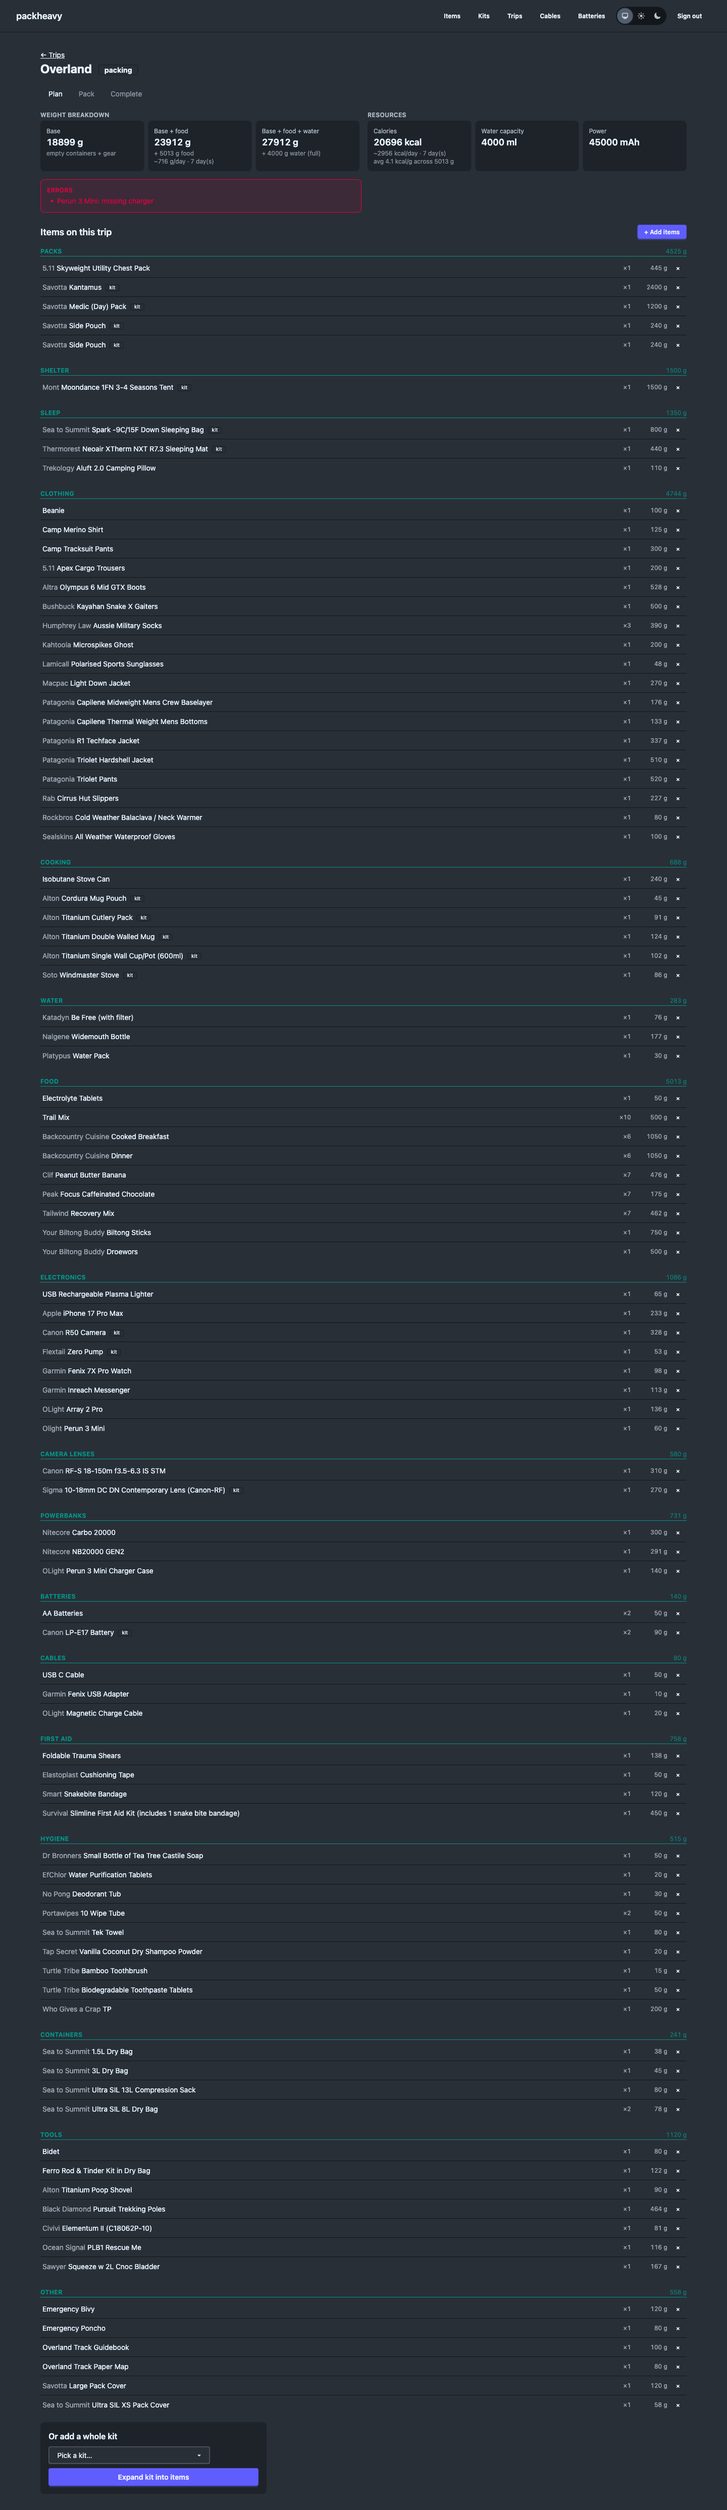
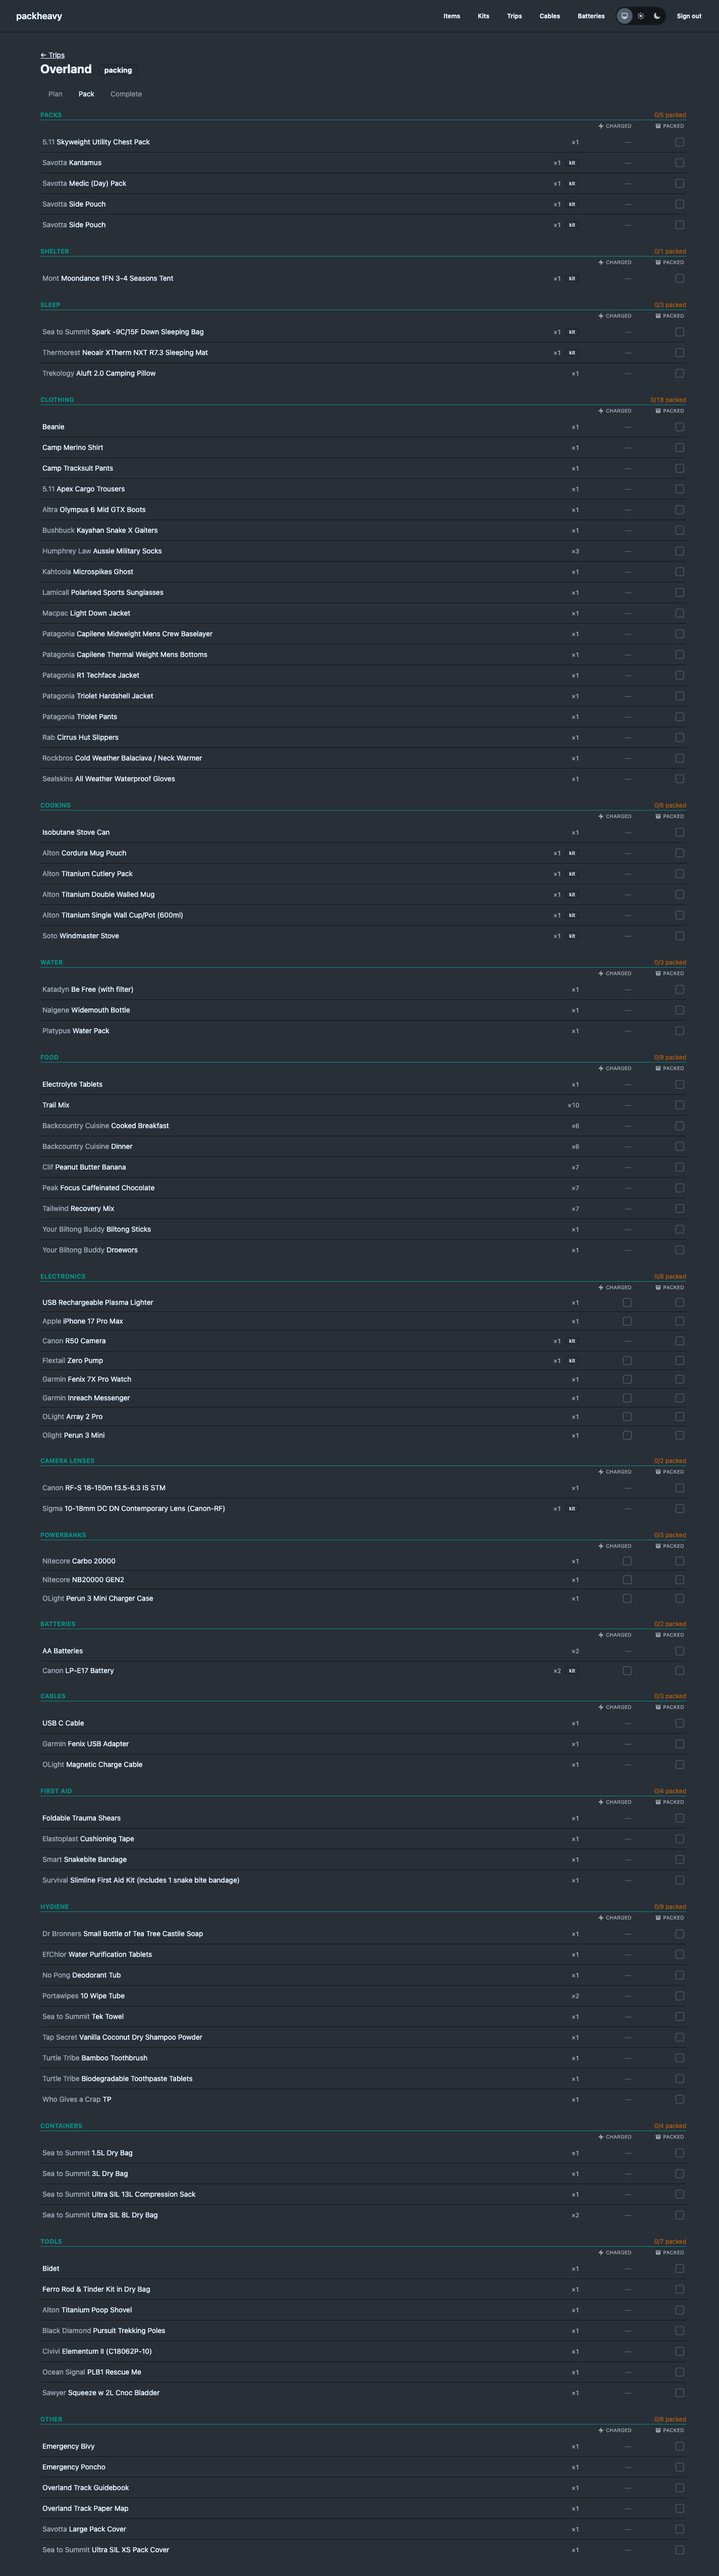
Fix desktop pack screenshot and group by aspect ratio
The previous desktop-trip-pack.png was actually the Plan tab — the tab
click never landed before the screenshot. Re-captured from the real
Pack tab so the charged + packed columns are visible.

README screenshots split into Standard pages, Focused views, and
Full-length pages so tall full-page captures aren't paired with short
ones in the same row.

diff --git a/README.md b/README.md
@@ -24,33 +24,55 @@ Built with [Phoenix LiveView][lv] and the [Ash framework][ash].
 
 ### Desktop
 
+#### Standard pages
+
 | | |
 |---|---|
 | **Dashboard** | **Trips list** |
 | ![Dashboard](docs/screenshots/desktop-dashboard.png) | ![Trips list](docs/screenshots/desktop-trips.png) |
-| **Inventory** | **Kits list** |
-| ![Inventory](docs/screenshots/desktop-items.png) | ![Kits](docs/screenshots/desktop-kits.png) |
-| **Kit detail** | **Cable types** |
-| ![Kit detail](docs/screenshots/desktop-kit-show.png) | ![Cable types](docs/screenshots/desktop-cable-types.png) |
-| **Trip — plan** | **Trip — pack** |
-| ![Trip plan](docs/screenshots/desktop-trip-plan.png) | ![Trip pack](docs/screenshots/desktop-trip-pack.png) |
-| **Food (kcal/serve, kcal/g)** | **Pack — charged + packed** |
-| ![Food category](docs/screenshots/desktop-items-food.png) | ![Pack electronics](docs/screenshots/desktop-trip-pack-electronics.png) |
-| **Item picker (full-state editor)** | **Battery types** |
-| ![Item picker](docs/screenshots/desktop-item-picker.png) | ![Battery types](docs/screenshots/desktop-battery-types.png) |
+| **Kits list** | **Kit detail** |
+| ![Kits](docs/screenshots/desktop-kits.png) | ![Kit detail](docs/screenshots/desktop-kit-show.png) |
+| **Cable types** | **Battery types** |
+| ![Cable types](docs/screenshots/desktop-cable-types.png) | ![Battery types](docs/screenshots/desktop-battery-types.png) |
 
-### Mobile
+#### Focused views
 
 | | | |
 |---|---|---|
-| **Dashboard** | **Inventory** | **Trips** |
-| ![Dashboard mobile](docs/screenshots/mobile-dashboard.png) | ![Inventory mobile](docs/screenshots/mobile-items.png) | ![Trips mobile](docs/screenshots/mobile-trips.png) |
-| **Kits** | **Kit detail** | **Trip — plan** |
-| ![Kits mobile](docs/screenshots/mobile-kits.png) | ![Kit detail mobile](docs/screenshots/mobile-kit-show.png) | ![Trip plan mobile](docs/screenshots/mobile-trip-plan.png) |
-| **Trip — pack** | **Cable types** | **Battery types** |
-| ![Trip pack mobile](docs/screenshots/mobile-trip-pack.png) | ![Cable types mobile](docs/screenshots/mobile-cable-types.png) | ![Battery types mobile](docs/screenshots/mobile-battery-types.png) |
+| **Food (kcal/serve, kcal/g)** | **Pack — charged + packed** | **Item picker** |
+| ![Food category](docs/screenshots/desktop-items-food.png) | ![Pack electronics](docs/screenshots/desktop-trip-pack-electronics.png) | ![Item picker](docs/screenshots/desktop-item-picker.png) |
+
+#### Full-length pages
+
+| | | |
+|---|---|---|
+| **Inventory** | **Trip — plan** | **Trip — pack** |
+| ![Inventory](docs/screenshots/desktop-items.png) | ![Trip plan](docs/screenshots/desktop-trip-plan.png) | ![Trip pack](docs/screenshots/desktop-trip-pack.png) |
+
+### Mobile
+
+#### Standard pages
+
+| | | |
+|---|---|---|
+| **Dashboard** | **Trips** | **Kits** |
+| ![Dashboard mobile](docs/screenshots/mobile-dashboard.png) | ![Trips mobile](docs/screenshots/mobile-trips.png) | ![Kits mobile](docs/screenshots/mobile-kits.png) |
+| **Kit detail** | **Cable types** | **Battery types** |
+| ![Kit detail mobile](docs/screenshots/mobile-kit-show.png) | ![Cable types mobile](docs/screenshots/mobile-cable-types.png) | ![Battery types mobile](docs/screenshots/mobile-battery-types.png) |
+
+#### Focused views
+
+| | | |
+|---|---|---|
 | **Food (kcal/serve, kcal/g)** | **Pack — charged + packed** | **Item picker** |
 | ![Food mobile](docs/screenshots/mobile-items-food.png) | ![Pack electronics mobile](docs/screenshots/mobile-trip-pack-electronics.png) | ![Item picker mobile](docs/screenshots/mobile-item-picker.png) |
+
+#### Full-length pages
+
+| | | |
+|---|---|---|
+| **Inventory** | **Trip — plan** | **Trip — pack** |
+| ![Inventory mobile](docs/screenshots/mobile-items.png) | ![Trip plan mobile](docs/screenshots/mobile-trip-plan.png) | ![Trip pack mobile](docs/screenshots/mobile-trip-pack.png) |
 
 ## Features
 
